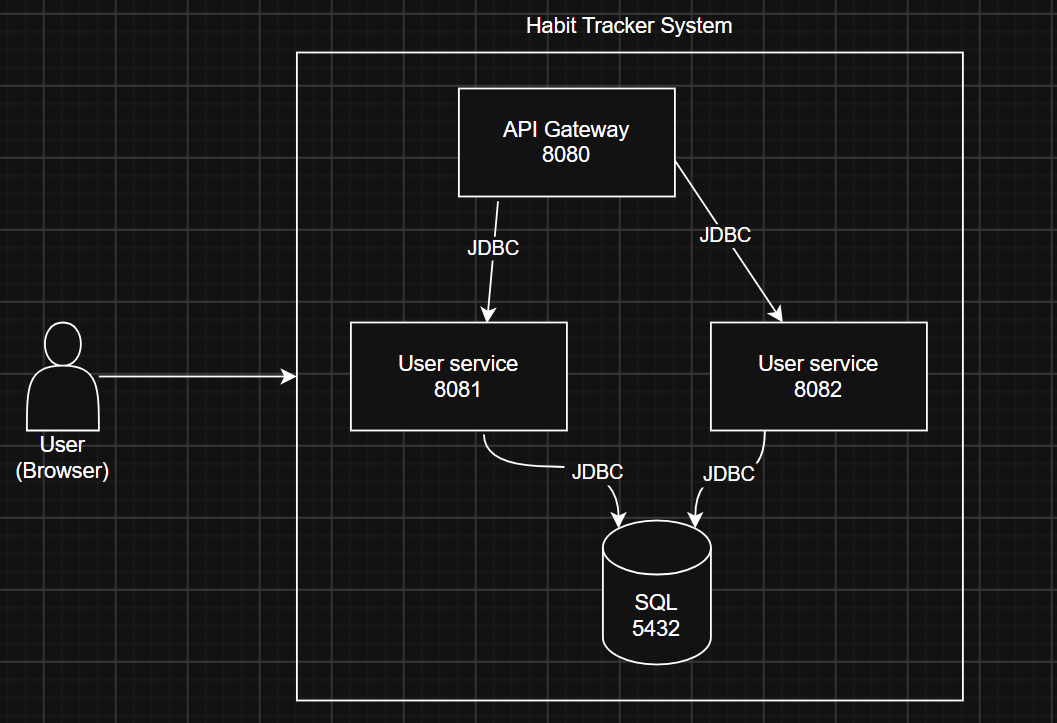
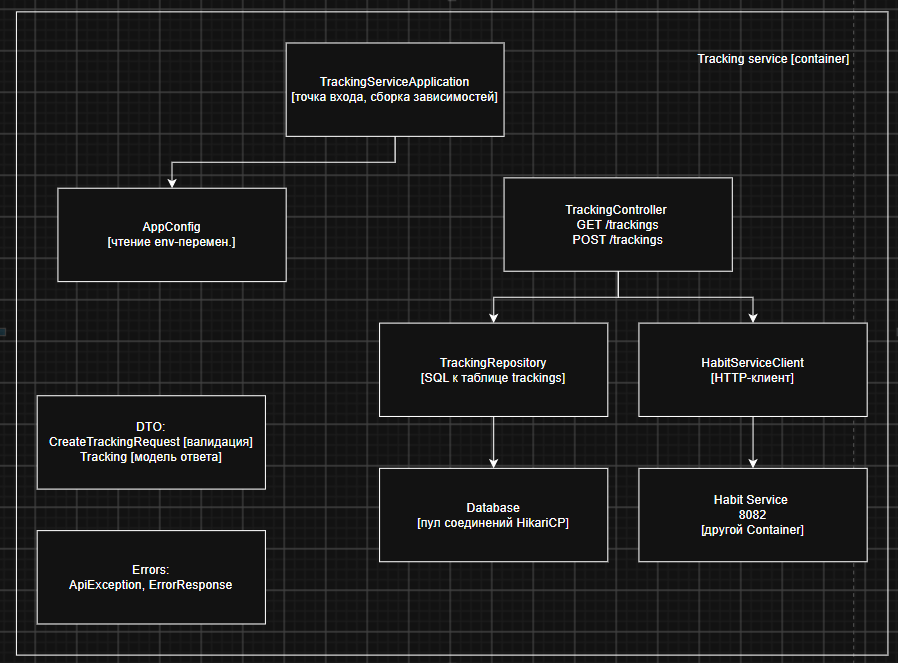
fix: accept today's date across time zones; add C4 drawio source and updated diagrams

diff --git a/tracking-service/src/main/java/com/habittracker/tracking/domain/CreateTrackingRequest.java b/tracking-service/src/main/java/com/habittracker/tracking/domain/CreateTrackingRequest.java
@@ -3,9 +3,17 @@ package com.habittracker.tracking.domain;
 import com.habittracker.tracking.error.ApiException;
 
 import java.time.LocalDate;
+import java.time.ZoneOffset;
 import java.time.format.DateTimeParseException;
 
 public record CreateTrackingRequest(int habitId, String completedOn) {
+
+    /**
+     * Допуск на часовые пояса: клиент может быть в UTC+14, а сервер — в UTC.
+     * Поэтому «сегодня» клиента может быть на день впереди даты сервера.
+     * Даты дальше этого допуска считаем ошибкой ввода.
+     */
+    private static final long FUTURE_DATE_TOLERANCE_DAYS = 1;
 
     public void validate() {
         if (habitId <= 0) {
@@ -14,12 +22,16 @@ public record CreateTrackingRequest(int habitId, String completedOn) {
         if (completedOn == null || completedOn.isBlank()) {
             throw new ApiException(400, "Field 'completedOn' is required (format: yyyy-MM-dd)");
         }
+
+        LocalDate date;
         try {
-            LocalDate.parse(completedOn.trim());
+            date = LocalDate.parse(completedOn.trim());
         } catch (DateTimeParseException exception) {
             throw new ApiException(400, "Field 'completedOn' must be a valid date in format yyyy-MM-dd");
         }
-        if (LocalDate.parse(completedOn.trim()).isAfter(LocalDate.now())) {
+
+        LocalDate latestAllowed = LocalDate.now(ZoneOffset.UTC).plusDays(FUTURE_DATE_TOLERANCE_DAYS);
+        if (date.isAfter(latestAllowed)) {
             throw new ApiException(400, "Field 'completedOn' cannot be in the future");
         }
     }

diff --git a/tracking-service/src/test/java/com/habittracker/tracking/domain/CreateTrackingRequestTest.java b/tracking-service/src/test/java/com/habittracker/tracking/domain/CreateTrackingRequestTest.java
@@ -4,6 +4,7 @@ import com.habittracker.tracking.error.ApiException;
 import org.junit.jupiter.api.Test;
 
 import java.time.LocalDate;
+import java.time.ZoneOffset;
 
 import static org.junit.jupiter.api.Assertions.assertDoesNotThrow;
 import static org.junit.jupiter.api.Assertions.assertEquals;
@@ -50,11 +51,22 @@ class CreateTrackingRequestTest {
     void rejectsFutureDate() {
         CreateTrackingRequest request = new CreateTrackingRequest(
                 1,
-                LocalDate.now().plusDays(1).toString()
+                LocalDate.now(ZoneOffset.UTC).plusDays(5).toString()
         );
 
         ApiException exception = assertThrows(ApiException.class, request::validate);
 
         assertEquals(400, exception.status());
+    }
+
+    @Test
+    void allowsTodayInAnyTimeZone() {
+        // Клиент может быть в UTC+14: его «сегодня» на день впереди UTC.
+        CreateTrackingRequest request = new CreateTrackingRequest(
+                1,
+                LocalDate.now(ZoneOffset.UTC).plusDays(1).toString()
+        );
+
+        assertDoesNotThrow(request::validate);
     }
 }
